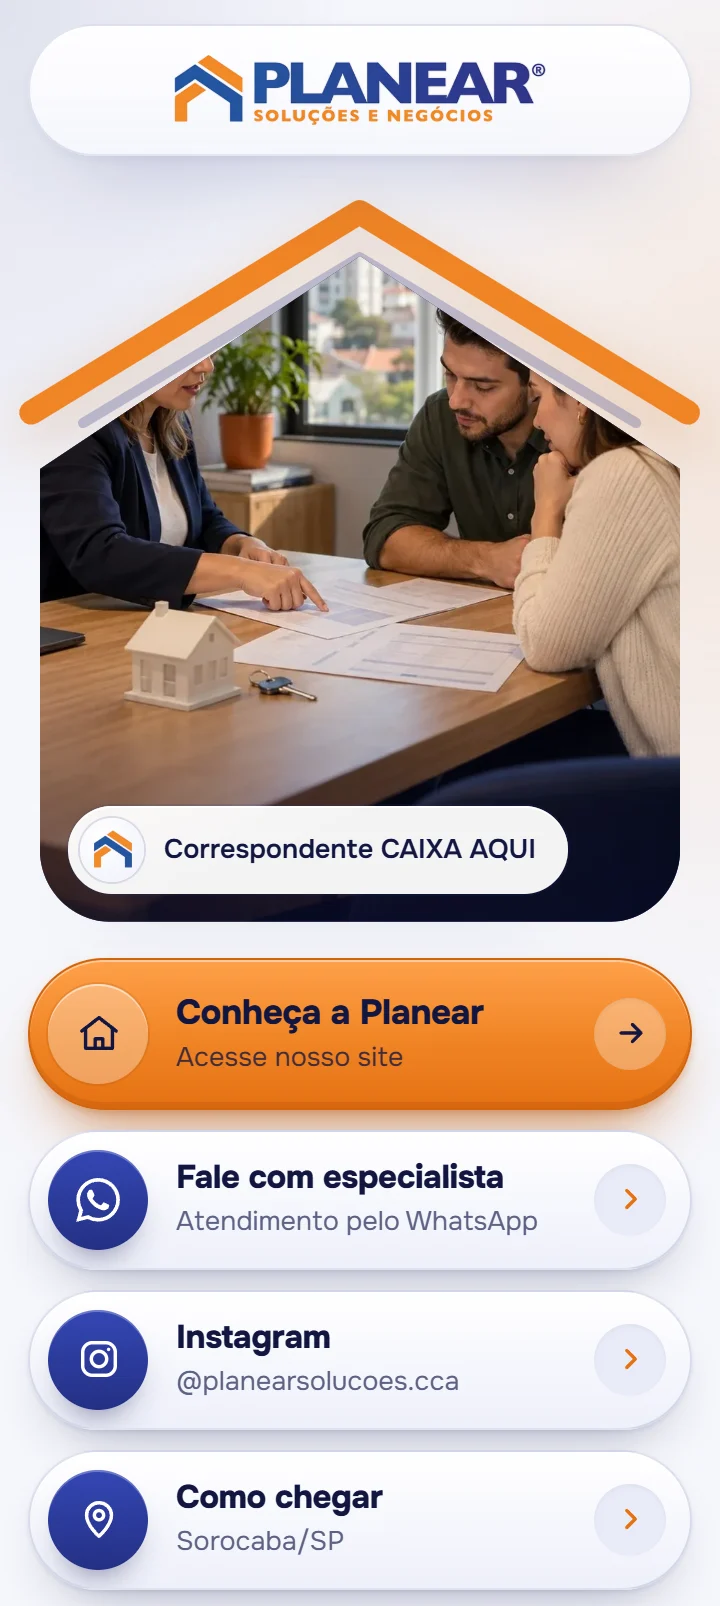
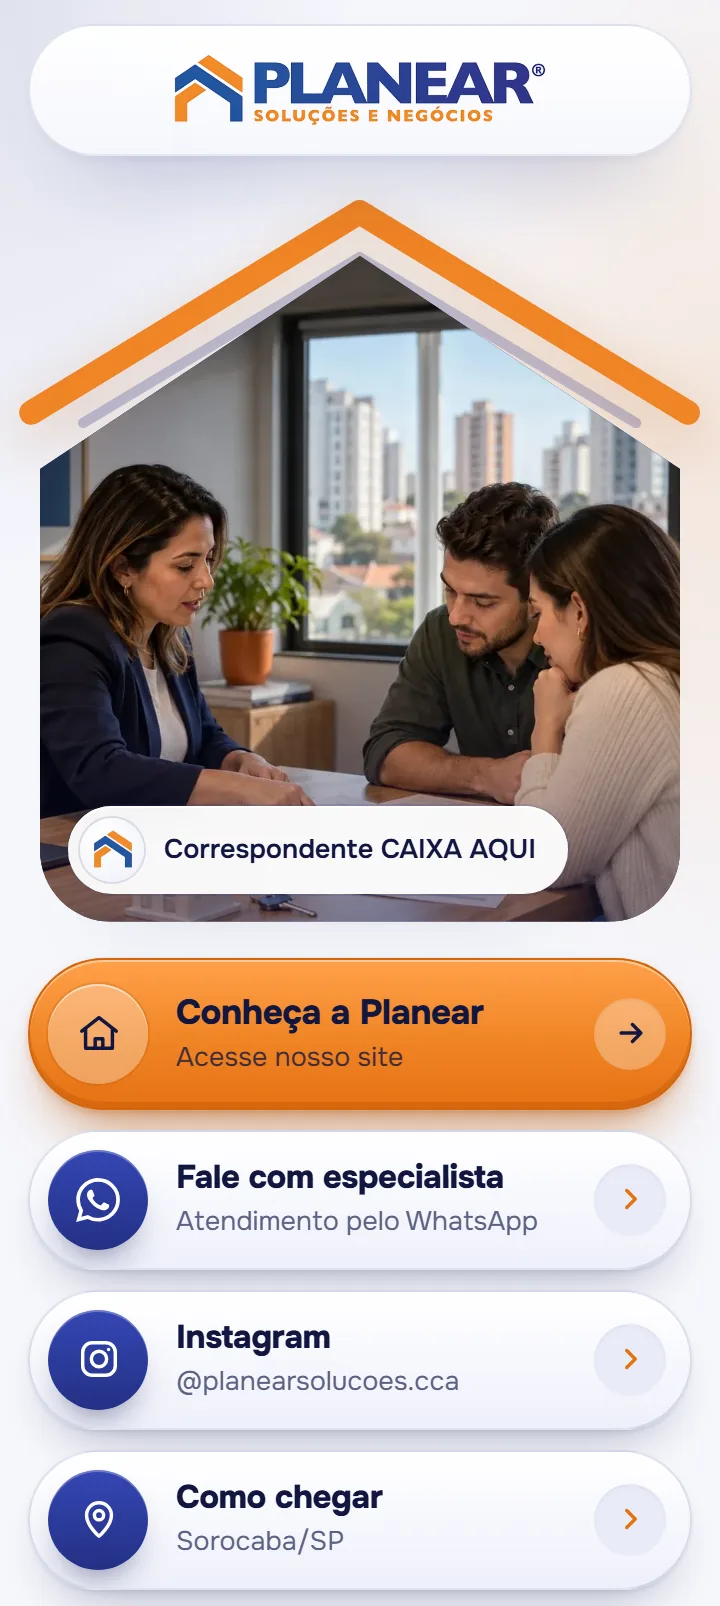
Carrossel: print novo da bio da Planear Solucoes com a foto enquadrada

Changed region(s): [[0.0306, 0.1557, 0.9472, 0.5915]]

diff --git a/linkdabio/index.html b/linkdabio/index.html
@@ -175,7 +175,7 @@
       <button type="button" class="pc pc-bio" data-g="bio" data-lp="7"><span class="pc-img"><img src="/gallery/portfolio/link-na-bio/link-na-bio-planear-treinamento-construcao-civil.webp?v=20261028" alt="Página de link na bio da Planear Treinamentos, consultoria e mentoria para construtoras, criada pela Descomplica Site" width="720" height="1768" loading="lazy" decoding="async"><span class="pc-zoom" aria-hidden="true"><svg class="i"><use href="#i-zoom"/></svg></span></span><span class="pc-cap"><span><b>Planear Treinamentos</b><small>Consultoria · Construtoras</small></span></span></button>
       <button type="button" class="pc pc-bio" data-g="bio" data-lp="8"><span class="pc-img"><img src="/gallery/portfolio/link-na-bio/link-na-bio-sarah-brandao-advocacia-internacional.webp" alt="Página de link na bio da Sarah Brandão Advocacia Internacional, atendimento jurídico no Brasil e no exterior, criada pela Descomplica Site" width="610" height="1165" loading="lazy" decoding="async"><span class="pc-zoom" aria-hidden="true"><svg class="i"><use href="#i-zoom"/></svg></span></span><span class="pc-cap"><span><b>Sarah Brandão</b><small>Advocacia internacional</small></span></span></button>
       <button type="button" class="pc pc-bio" data-g="bio" data-lp="9"><span class="pc-img"><img src="/gallery/portfolio/link-na-bio/link-na-bio-tambelli-engenharia-integrada-sorocaba-sp.webp?v=20261028" alt="Página de link na bio da Tambelli Engenharia Integrada, do projeto à entrega em Sorocaba/SP, criada pela Descomplica Site" width="720" height="1802" loading="lazy" decoding="async"><span class="pc-zoom" aria-hidden="true"><svg class="i"><use href="#i-zoom"/></svg></span></span><span class="pc-cap"><span><b>Tambelli Engenharia</b><small>Engenharia integrada · Sorocaba/SP</small></span></span></button>
-      <button type="button" class="pc pc-bio" data-g="bio" data-lp="10"><span class="pc-img"><img src="/gallery/portfolio/link-na-bio/link-na-bio-planear-solucoes-financiamento-imobiliario-sorocaba-sp.webp?v=20261028" alt="Página de link na bio da Planear Soluções e Negócios, correspondente CAIXA e financiamento imobiliário em Sorocaba/SP, criada pela Descomplica Site" width="720" height="1606" loading="lazy" decoding="async"><span class="pc-zoom" aria-hidden="true"><svg class="i"><use href="#i-zoom"/></svg></span></span><span class="pc-cap"><span><b>Planear Soluções</b><small>Financiamento imobiliário · Sorocaba/SP</small></span></span></button>
+      <button type="button" class="pc pc-bio" data-g="bio" data-lp="10"><span class="pc-img"><img src="/gallery/portfolio/link-na-bio/link-na-bio-planear-solucoes-financiamento-imobiliario-sorocaba-sp.webp?v=20261101" alt="Página de link na bio da Planear Soluções e Negócios, correspondente CAIXA e financiamento imobiliário em Sorocaba/SP, criada pela Descomplica Site" width="720" height="1606" loading="lazy" decoding="async"><span class="pc-zoom" aria-hidden="true"><svg class="i"><use href="#i-zoom"/></svg></span></span><span class="pc-cap"><span><b>Planear Soluções</b><small>Financiamento imobiliário · Sorocaba/SP</small></span></span></button>
       <button type="button" class="pc pc-bio" data-g="bio" data-lp="11"><span class="pc-img"><img src="/gallery/portfolio/link-na-bio/link-na-bio-arca-sorocaba-ong-acolhimento-sorocaba-sp.webp" alt="Página de link na bio da ARCA Sorocaba, ONG de acolhimento de adultos com deficiência intelectual, criada pela Descomplica Site" width="720" height="972" loading="lazy" decoding="async"><span class="pc-zoom" aria-hidden="true"><svg class="i"><use href="#i-zoom"/></svg></span></span><span class="pc-cap"><span><b>ARCA Sorocaba</b><small>ONG · Sorocaba/SP</small></span></span></button>
     </div></div>
   </div>

diff --git a/index.html b/index.html
@@ -313,7 +313,7 @@
       <button type="button" class="pc pc-bio" data-g="bio" data-lp="7"><span class="pc-img"><img src="gallery/portfolio/link-na-bio/link-na-bio-planear-treinamento-construcao-civil.webp?v=20261028" alt="Página de link na bio da Planear Treinamentos, consultoria e mentoria para construtoras, criada pela Descomplica Site" width="720" height="1768" loading="lazy" decoding="async"><span class="pc-zoom" aria-hidden="true"><svg class="i"><use href="#i-zoom"/></svg></span></span><span class="pc-cap"><span><b>Planear Treinamentos</b><small>Consultoria · Construtoras</small></span></span></button>
       <button type="button" class="pc pc-bio" data-g="bio" data-lp="8"><span class="pc-img"><img src="gallery/portfolio/link-na-bio/link-na-bio-sarah-brandao-advocacia-internacional.webp" alt="Página de link na bio da Sarah Brandão Advocacia Internacional, atendimento jurídico no Brasil e no exterior, criada pela Descomplica Site" width="610" height="1165" loading="lazy" decoding="async"><span class="pc-zoom" aria-hidden="true"><svg class="i"><use href="#i-zoom"/></svg></span></span><span class="pc-cap"><span><b>Sarah Brandão</b><small>Advocacia internacional</small></span></span></button>
       <button type="button" class="pc pc-bio" data-g="bio" data-lp="9"><span class="pc-img"><img src="gallery/portfolio/link-na-bio/link-na-bio-tambelli-engenharia-integrada-sorocaba-sp.webp?v=20261028" alt="Página de link na bio da Tambelli Engenharia Integrada, do projeto à entrega em Sorocaba/SP, criada pela Descomplica Site" width="720" height="1802" loading="lazy" decoding="async"><span class="pc-zoom" aria-hidden="true"><svg class="i"><use href="#i-zoom"/></svg></span></span><span class="pc-cap"><span><b>Tambelli Engenharia</b><small>Engenharia integrada · Sorocaba/SP</small></span></span></button>
-      <button type="button" class="pc pc-bio" data-g="bio" data-lp="10"><span class="pc-img"><img src="gallery/portfolio/link-na-bio/link-na-bio-planear-solucoes-financiamento-imobiliario-sorocaba-sp.webp?v=20261028" alt="Página de link na bio da Planear Soluções e Negócios, correspondente CAIXA e financiamento imobiliário em Sorocaba/SP, criada pela Descomplica Site" width="720" height="1606" loading="lazy" decoding="async"><span class="pc-zoom" aria-hidden="true"><svg class="i"><use href="#i-zoom"/></svg></span></span><span class="pc-cap"><span><b>Planear Soluções</b><small>Financiamento imobiliário · Sorocaba/SP</small></span></span></button>
+      <button type="button" class="pc pc-bio" data-g="bio" data-lp="10"><span class="pc-img"><img src="gallery/portfolio/link-na-bio/link-na-bio-planear-solucoes-financiamento-imobiliario-sorocaba-sp.webp?v=20261101" alt="Página de link na bio da Planear Soluções e Negócios, correspondente CAIXA e financiamento imobiliário em Sorocaba/SP, criada pela Descomplica Site" width="720" height="1606" loading="lazy" decoding="async"><span class="pc-zoom" aria-hidden="true"><svg class="i"><use href="#i-zoom"/></svg></span></span><span class="pc-cap"><span><b>Planear Soluções</b><small>Financiamento imobiliário · Sorocaba/SP</small></span></span></button>
       <button type="button" class="pc pc-bio" data-g="bio" data-lp="11"><span class="pc-img"><img src="gallery/portfolio/link-na-bio/link-na-bio-arca-sorocaba-ong-acolhimento-sorocaba-sp.webp" alt="Página de link na bio da ARCA Sorocaba, ONG de acolhimento de adultos com deficiência intelectual, criada pela Descomplica Site" width="720" height="972" loading="lazy" decoding="async"><span class="pc-zoom" aria-hidden="true"><svg class="i"><use href="#i-zoom"/></svg></span></span><span class="pc-cap"><span><b>ARCA Sorocaba</b><small>ONG · Sorocaba/SP</small></span></span></button>
     </div></div>
   </div>
